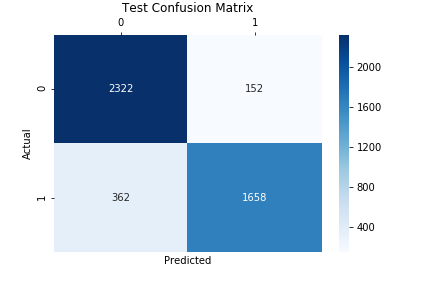
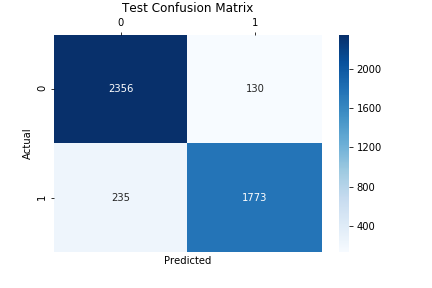
added some parameter testing stuff

diff --git a/eeg_midterm_randomforest.py b/eeg_midterm_randomforest.py
@@ -16,8 +16,9 @@ eeg = pd.read_csv(os.path.join(cwd, 'EEGEyeState.csv'))
 X = eeg.ix[:,(0,1,2,3,4,5,6,7,8,9,10,11,12,13)].values
 y = eeg.ix[:,14].values
 
-X_train, X_test, y_train, y_test = train_test_split(X, y, test_size=.3, random_state=123)
-tree_classf = RandomForestClassifier(n_estimators=10)
+X_train, X_test, y_train, y_test = train_test_split(X, y, test_size=.3, random_state=420)
+# n_estimators = 100
+tree_classf = RandomForestClassifier(n_estimators=100)
 tree_classf.fit(X_train, y_train)
 
 
@@ -39,24 +40,18 @@ max(y_test.mean(), 1 - y_test.mean())
 
 ## Confusion Matrix
 # On Test Data
-cf_mx_test = metrics.confusion_matrix(y_test, y_bipreds_test)
-cm_df_test = pd.DataFrame(cf_mx_test, range(2), range(2))
+cf_mX_test = metrics.confusion_matrix(y_test, y_bipreds_test)
+cm_df_test = pd.DataFrame(cf_mX_test, range(2), range(2))
 # Graphing Confusion Matrix
-ax_test = sn.heatmap(cm_df_test, annot=True, cmap='Blues', fmt='g')
+aX_test = sn.heatmap(cm_df_test, annot=True, cmap='Blues', fmt='g')
 plt.title("Test Confusion Matrix")
 plt.xlabel("Predicted")
 plt.ylabel("Actual")
-ax_test.xaxis.tick_top()
+aX_test.xaxis.tick_top()
 plt.savefig("Conf_Matrix.png")
 
 ## ROC and AUC
-# Find ROC and AUC of train set
-y_probs_train = tree_classf.predict_proba(X_train)
-y_preds_train = y_probs_train[:,1]
-fpr_train, tpr_train, threshold_train = roc_curve(y_train, y_preds_train)
-roc_auc_train = auc(fpr_train, tpr_train)
-
-# Find ROC and AUC of test set
+# Find ROC and AUC of n_estimators
 y_probs_test = tree_classf.predict_proba(X_test)
 y_preds_test = y_probs_test[:,1]
 fpr_test, tpr_test, threshold_test = roc_curve(y_test, y_preds_test)
@@ -64,8 +59,7 @@ roc_auc_test = auc(fpr_test, tpr_test)
 
 # Plot it all
 plt.title('ROC Curve')
-plt.plot(fpr_train, tpr_test, 'orange', label = 'Train: AUC = %0.2f' % roc_auc_train)
-plt.plot(fpr_test, tpr_test, 'b', label = 'Test: AUC = %0.2f' % roc_auc_test)
+plt.plot(fpr_test, tpr_test, 'b', label = 'Model 1: AUC = %0.2f' % roc_auc_test)
 plt.plot()
 plt.legend(loc = 'lower right')
 plt.plot([0, 1], [0, 1],'r--')
@@ -74,4 +68,28 @@ plt.ylim([0, 1])
 plt.ylabel('True Positive Rate')
 plt.xlabel('False Positive Rate')
 plt.savefig("ROC_Curve.png")
+plt.show()
+
+
+## Parameter Testing
+n_estimators = [1, 2, 4, 8, 16, 32, 64, 100, 200]
+train_results = []
+test_results = []
+for estimator in n_estimators:
+   rf = RandomForestClassifier(n_estimators=estimator, n_jobs=-1)
+   rf.fit(X_train, y_train)
+   train_pred = rf.predict(X_train)
+   false_positive_rate, true_positive_rate, thresholds = roc_curve(y_train, train_pred)
+   roc_auc = auc(false_positive_rate, true_positive_rate)
+   train_results.append(roc_auc)
+   y_pred = rf.predict(X_test)
+   false_positive_rate, true_positive_rate, thresholds = roc_curve(y_test, y_pred)
+   roc_auc = auc(false_positive_rate, true_positive_rate)
+   test_results.append(roc_auc)
+from matplotlib.legend_handler import HandlerLine2D
+line1, = plt.plot(n_estimators, train_results, 'b', label="Train AUC")
+line2, = plt.plot(n_estimators, test_results, 'r', label="Test AUC")
+plt.legend(handler_map={line1: HandlerLine2D(numpoints=2)})
+plt.ylabel('AUC score')
+plt.xlabel('n_estimators')
 plt.show()
